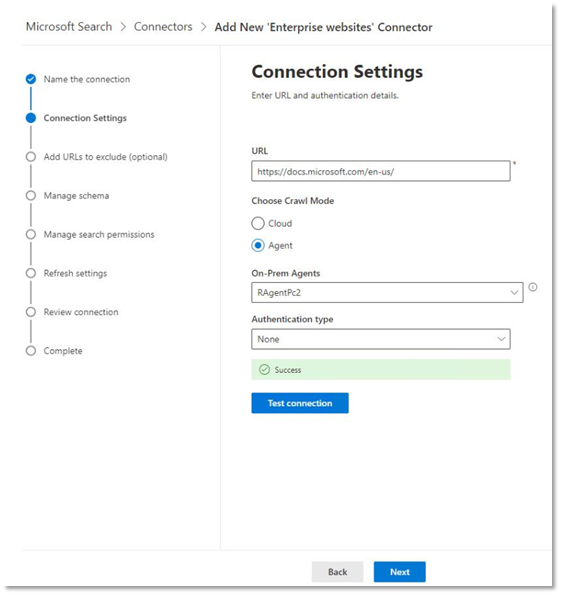
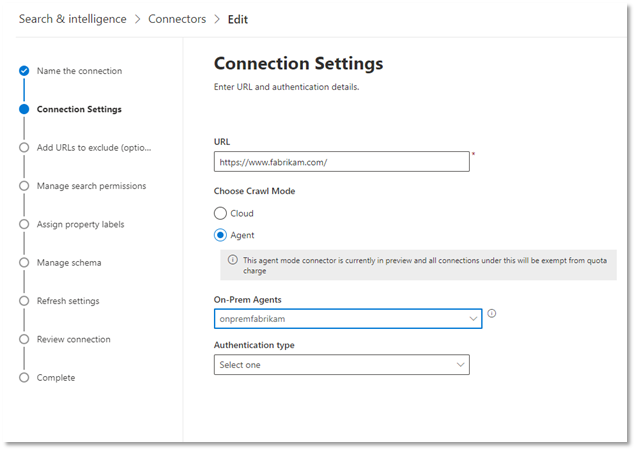
enterprisewebconnector updates
additional revs and new image showing agent value

diff --git a/MicrosoftSearch/enterprise-web-connector.md b/MicrosoftSearch/enterprise-web-connector.md
@@ -28,11 +28,13 @@ To connect to your data source, you need to fill in the root URL of the website,
 
 Use the URL field to specify the root of the website that you'd like to crawl. The enterprise websites connector will use this URL as the starting point and follow all the links from this URL for its crawl.
 
-### Crawl Source: Cloud or On-premises (Preview)
+### Crawl Mode: Cloud or On-premises (Preview)
 
-For your cloud websites, select Cloud as the crawl mode. Also, the connector now supports crawling of on-premises websites. This feature is in preview. To access that data, you must first install and configure the Graph connector agent. To learn more, see [Graph connector agent](https://docs.microsoft.com/microsoftsearch/on-prem-agent).
+For your cloud websites, select Cloud as the crawl mode.
 
-For your on-premises websites, select Agent as the crawl mode and then choose the on-premises agent that you installed and configured earlier.  
+Also, the connector now supports crawling of on-premises websites. This agent mode feature is in preview. To access your on-premises data, you must first install and configure the Graph connector agent. To learn more, see [Graph connector agent](https://docs.microsoft.com/microsoftsearch/on-prem-agent).
+
+For your on-premises websites, select Agent as the crawl mode and then choose the On-Prem Agent that you installed and configured earlier.  
 
 ![Screenshot of Connection Settings pane for Enterprise Web connector](media/connectors-enterpriseweb-settings.png)
 
@@ -40,7 +42,7 @@ For your on-premises websites, select Agent as the crawl mode and then choose th
 
 Basic Authentication requires a username and password. Create this bot account by using the [Microsoft 365 admin center](https://admin.microsoft.com).
 
-OAuth 2.0 with [Azure AD](https://docs.microsoft.com/azure/active-directory/) requires a resource ID, Client ID, and Client Secret.
+OAuth 2.0 with [Azure AD](https://docs.microsoft.com/azure/active-directory/) requires a resource ID, Client ID, and Client Secret. Currently, OAuth 2.0 only works with Cloud mode.
 
 For more information, see [Authorize access to Azure Active Directory web applications using OAuth 2.0 code grant flow](https://docs.microsoft.com/azure/active-directory/develop/v1-protocols-oauth-code). Register with the following values:
 
